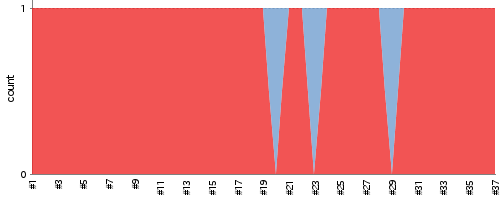
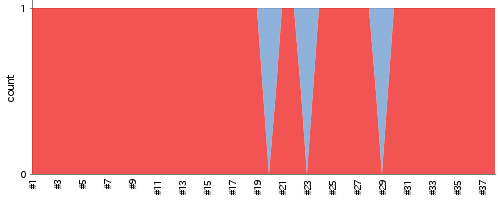
update report

diff --git a/drcutil/index.md b/drcutil/index.md
@@ -13,7 +13,7 @@ UNSTABLE
 * Stability
   
 ![Jenkins Icon](http://jenkinshrg.github.io/images/48x48/health-00to19.png)
-8%
+7%
   
 ### Build Trend
 ___
@@ -35,6 +35,7 @@ ___
   
 |Status|Time|Duration|Changes|Build|Test|Note|
 |---|---|---|---|---|---|---|
+|![Jenkins Icon](http://jenkinshrg.github.io/images/24x24/yellow.png)UNSTABLE|2015/07/08 05:00|28 min.||[BUILD](https://drive.google.com/file/d/0B54sHwaxmuM4YS1QU3NtV25jeUk/view?usp=drivesdk) |[CONSOLE](https://drive.google.com/file/d/0B54sHwaxmuM4WGRQSm9yT0FadlE/view?usp=drivesdk) [IMAGE](https://drive.google.com/file/d/0B54sHwaxmuM4NkJGTnRpMm5uaEk/edit?usp=drivesdk) [VIDEO](https://drive.google.com/file/d/0B54sHwaxmuM4azllTk1aQUVVakU/edit?usp=drivesdk) |STOP NORMAL|
 |![Jenkins Icon](http://jenkinshrg.github.io/images/24x24/yellow.png)UNSTABLE|2015/07/08 04:00|28 min.||[BUILD](https://drive.google.com/file/d/0B54sHwaxmuM4SjQ3eTZybURpbTg/view?usp=drivesdk) |[CONSOLE](https://drive.google.com/file/d/0B54sHwaxmuM4Z0I2SjN0dEhOM2M/view?usp=drivesdk) [IMAGE](https://drive.google.com/file/d/0B54sHwaxmuM4S2JORFhDdFdDNDA/edit?usp=drivesdk) [VIDEO](https://drive.google.com/file/d/0B54sHwaxmuM4M0MwVERUWThBd28/edit?usp=drivesdk) |STOP NORMAL|
 |![Jenkins Icon](http://jenkinshrg.github.io/images/24x24/yellow.png)UNSTABLE|2015/07/08 03:00|27 min.||[BUILD](https://drive.google.com/file/d/0B54sHwaxmuM4Tnd5NjdYdXhOZ1U/view?usp=drivesdk) |[CONSOLE](https://drive.google.com/file/d/0B54sHwaxmuM4WWQ0d0dHZE44THM/view?usp=drivesdk) [IMAGE](https://drive.google.com/file/d/0B54sHwaxmuM4R19RdHVlQ3BTNzg/edit?usp=drivesdk) |STOP RED|
 |![Jenkins Icon](http://jenkinshrg.github.io/images/24x24/yellow.png)UNSTABLE|2015/07/08 02:00|28 min.||[BUILD](https://drive.google.com/file/d/0B54sHwaxmuM4cDVJQVFhdUY2TGc/view?usp=drivesdk) |[CONSOLE](https://drive.google.com/file/d/0B54sHwaxmuM4STNaRFVhdURqYjg/view?usp=drivesdk) [IMAGE](https://drive.google.com/file/d/0B54sHwaxmuM4UkdPSXJ5Y0FZSms/edit?usp=drivesdk) [VIDEO](https://drive.google.com/file/d/0B54sHwaxmuM4Vl8xMWc3YkJtQ0E/edit?usp=drivesdk) |STOP NORMAL|

diff --git a/index.md b/index.md
@@ -2,7 +2,7 @@
 layout: default
 ---
 # Jenkins CI report For HRG
-## Build and test report (2015/07/08 04:28:05)
+## Build and test report (2015/07/08 05:28:15)
 ### Build Status
 ___
   
